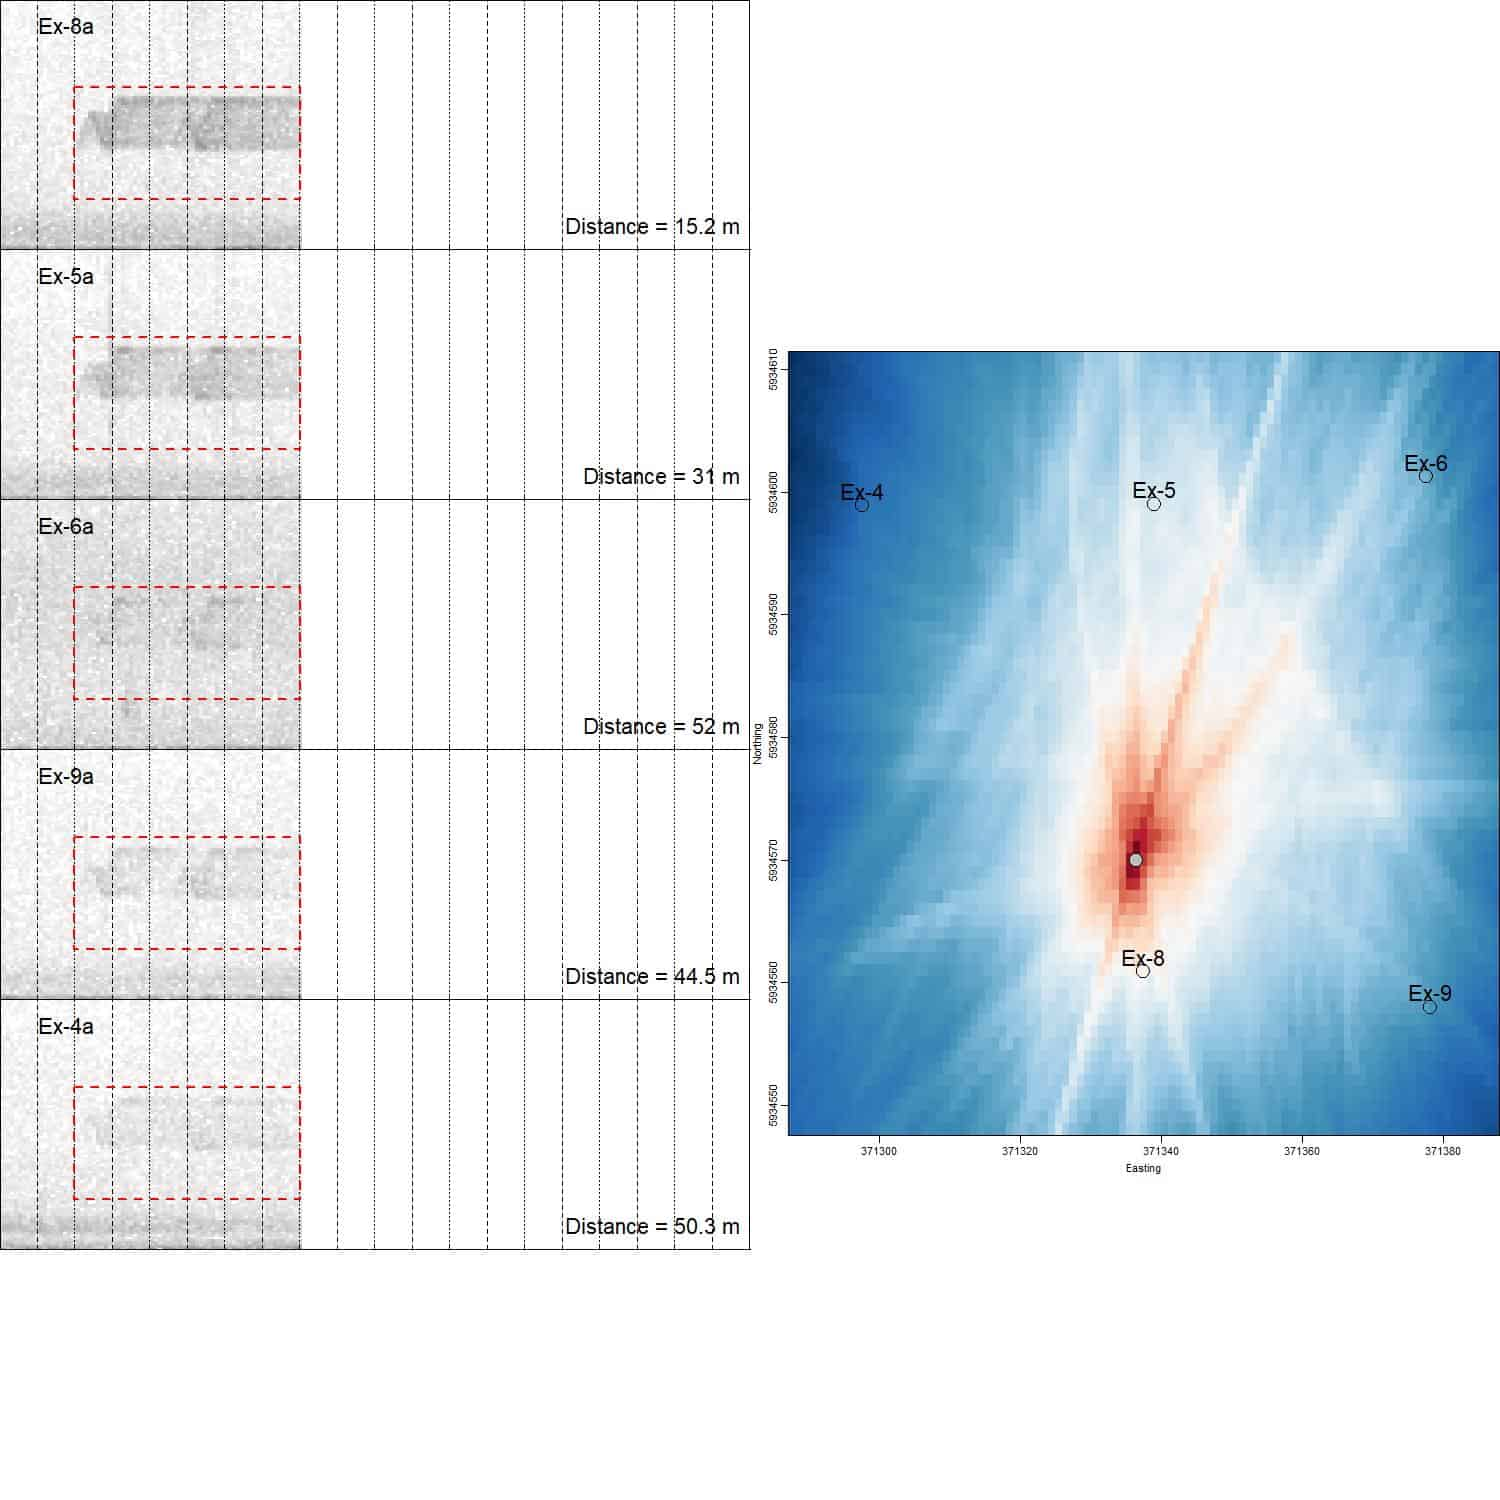
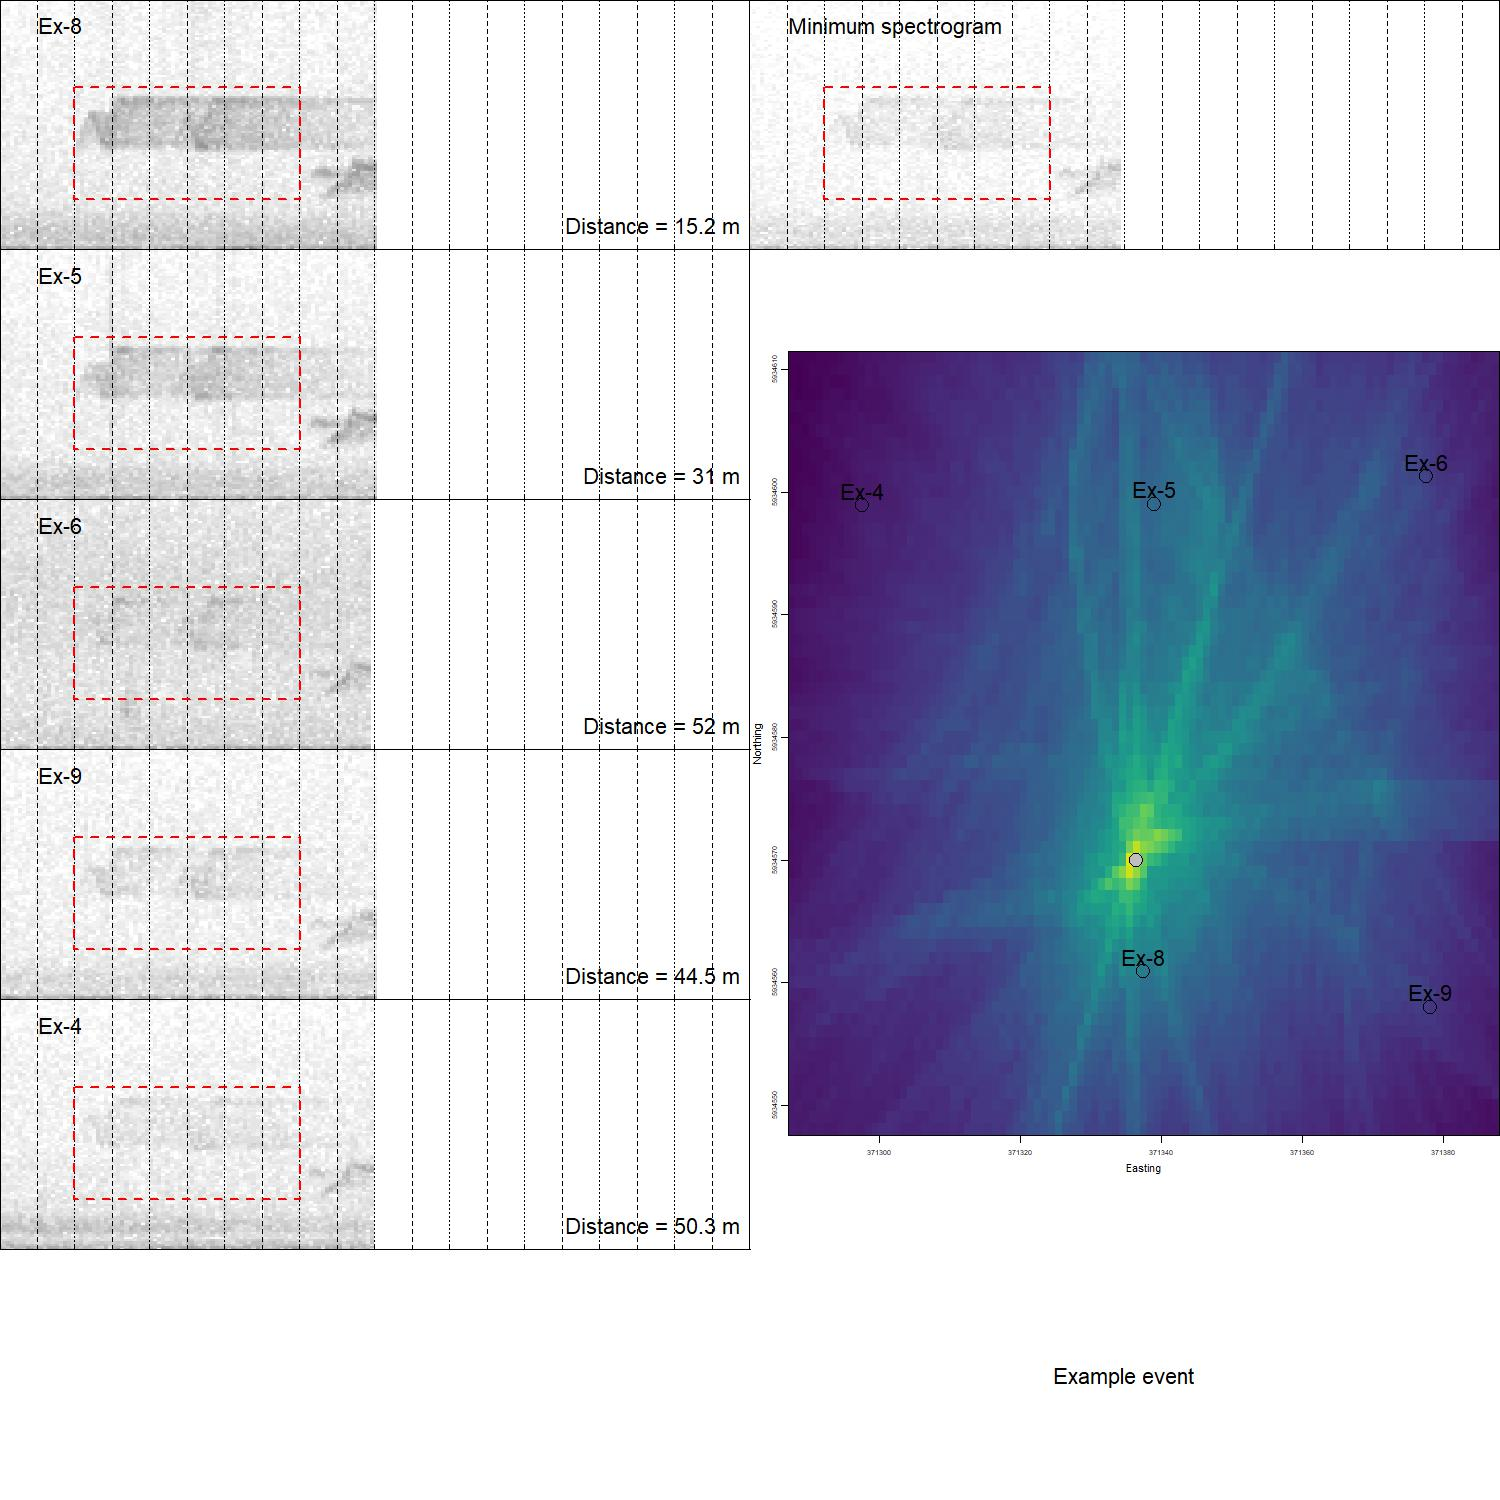
Updates prior to submission to CRAN
Various improved messages and error handling, and improvements to the basic plot function to improve user experience.

diff --git a/NEWS.md b/NEWS.md
@@ -1,3 +1,10 @@
+# locaR (development version)
+
+-Update to use the "_Package" sentinel value as recommended by CRAN.
+-Minor updates to author list for accuracy.
+-Improved error messages to help users understand errors within the `localize()`, `createWavList()`, and `processSettings()` functions.
+-Added drawing of minimum spectrograms and printing of improved information to the `validationSpec()` function to assist with validating outputs.
+
 # locaR 0.1.2
 
 - Update for initial release to CRAN.
